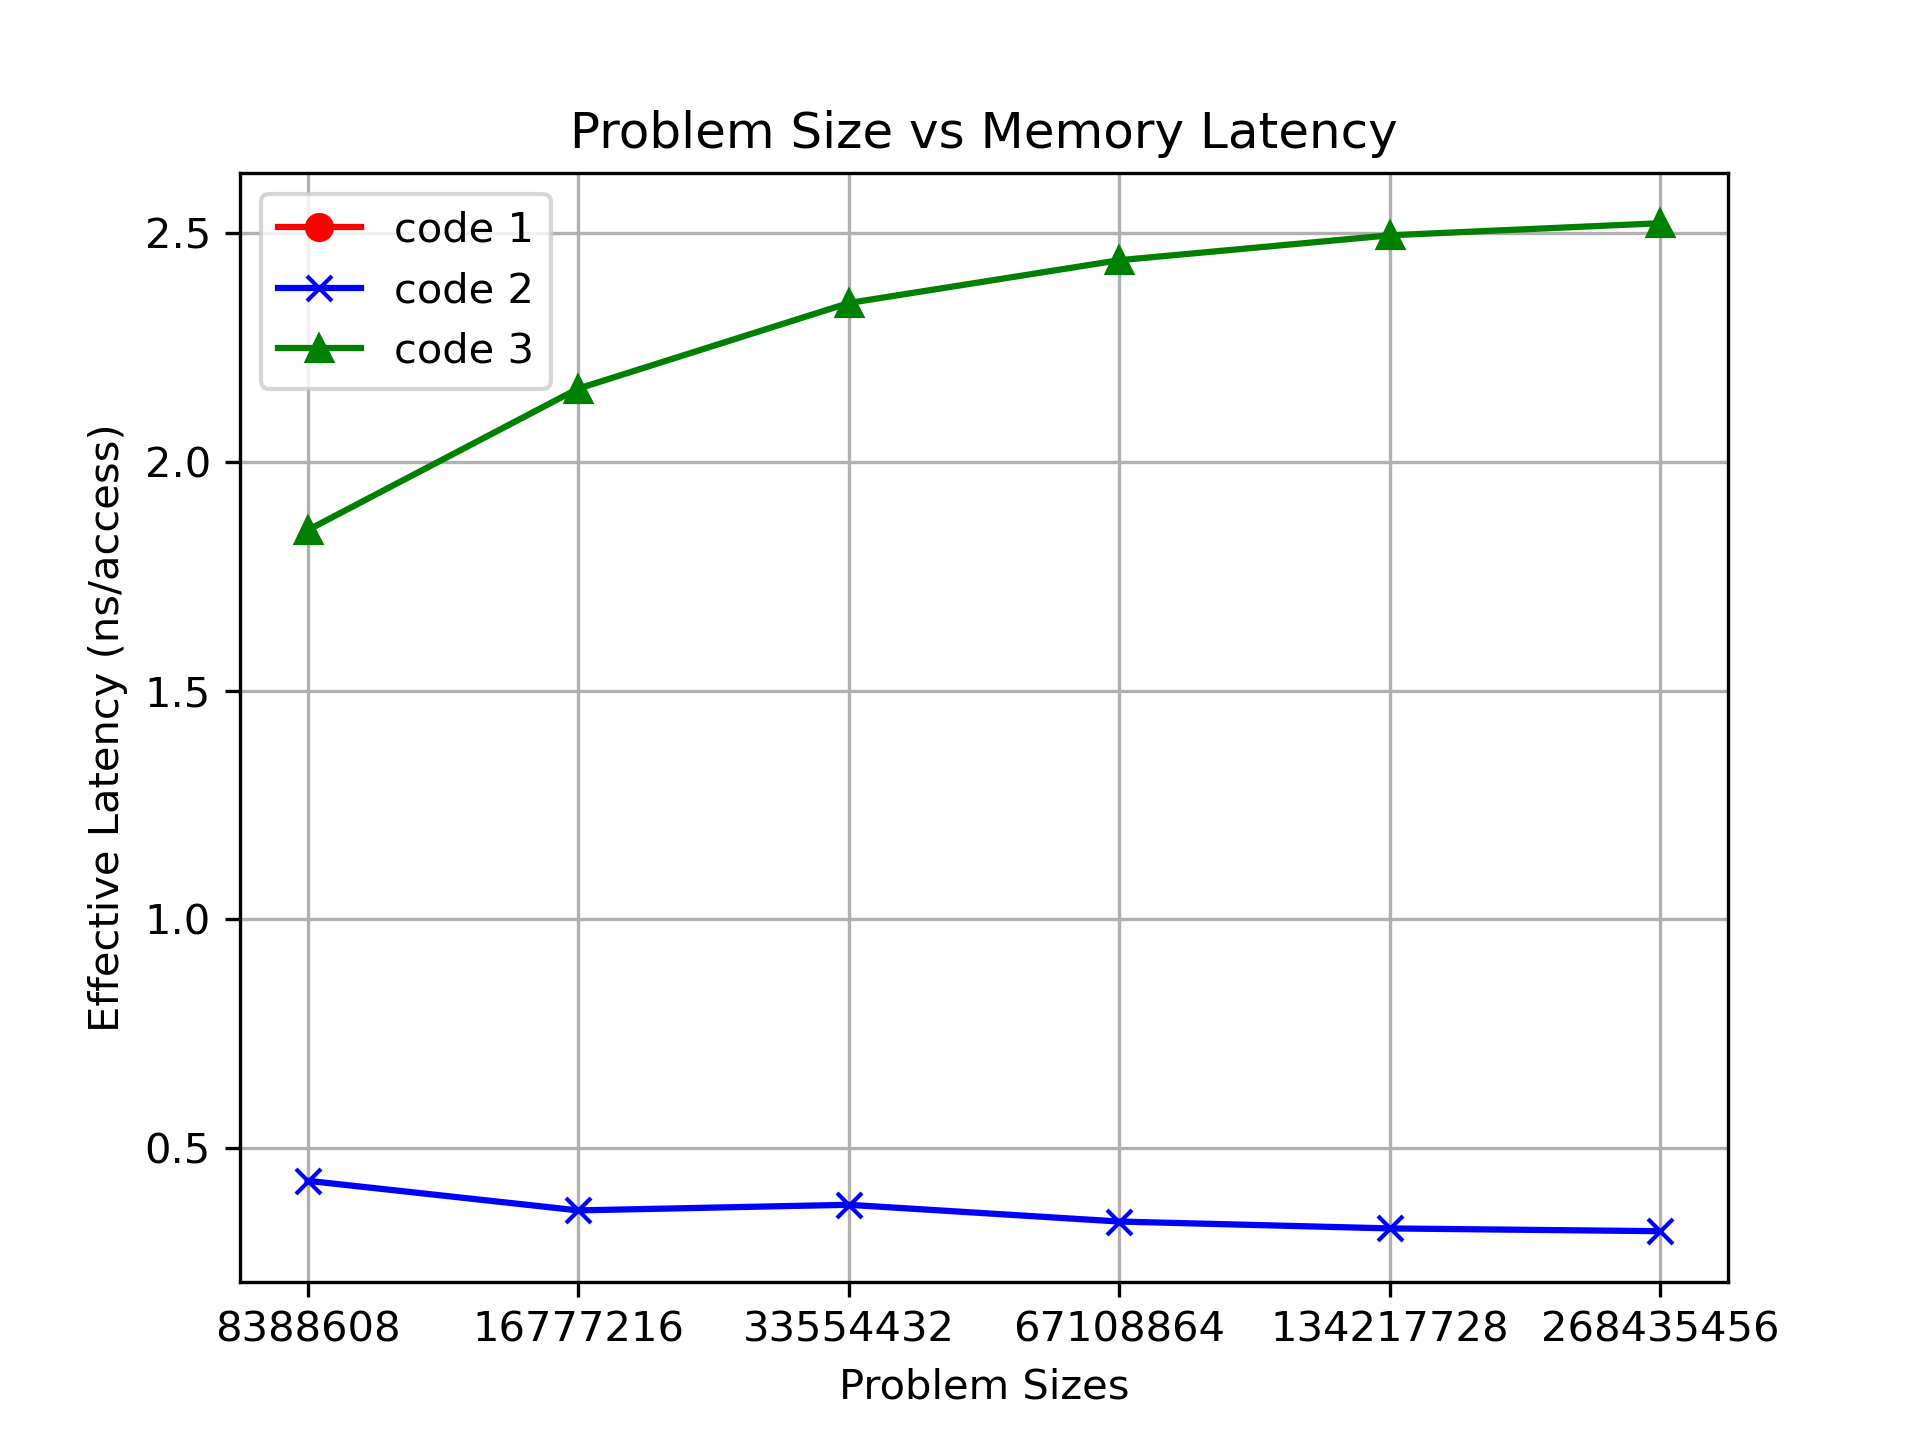
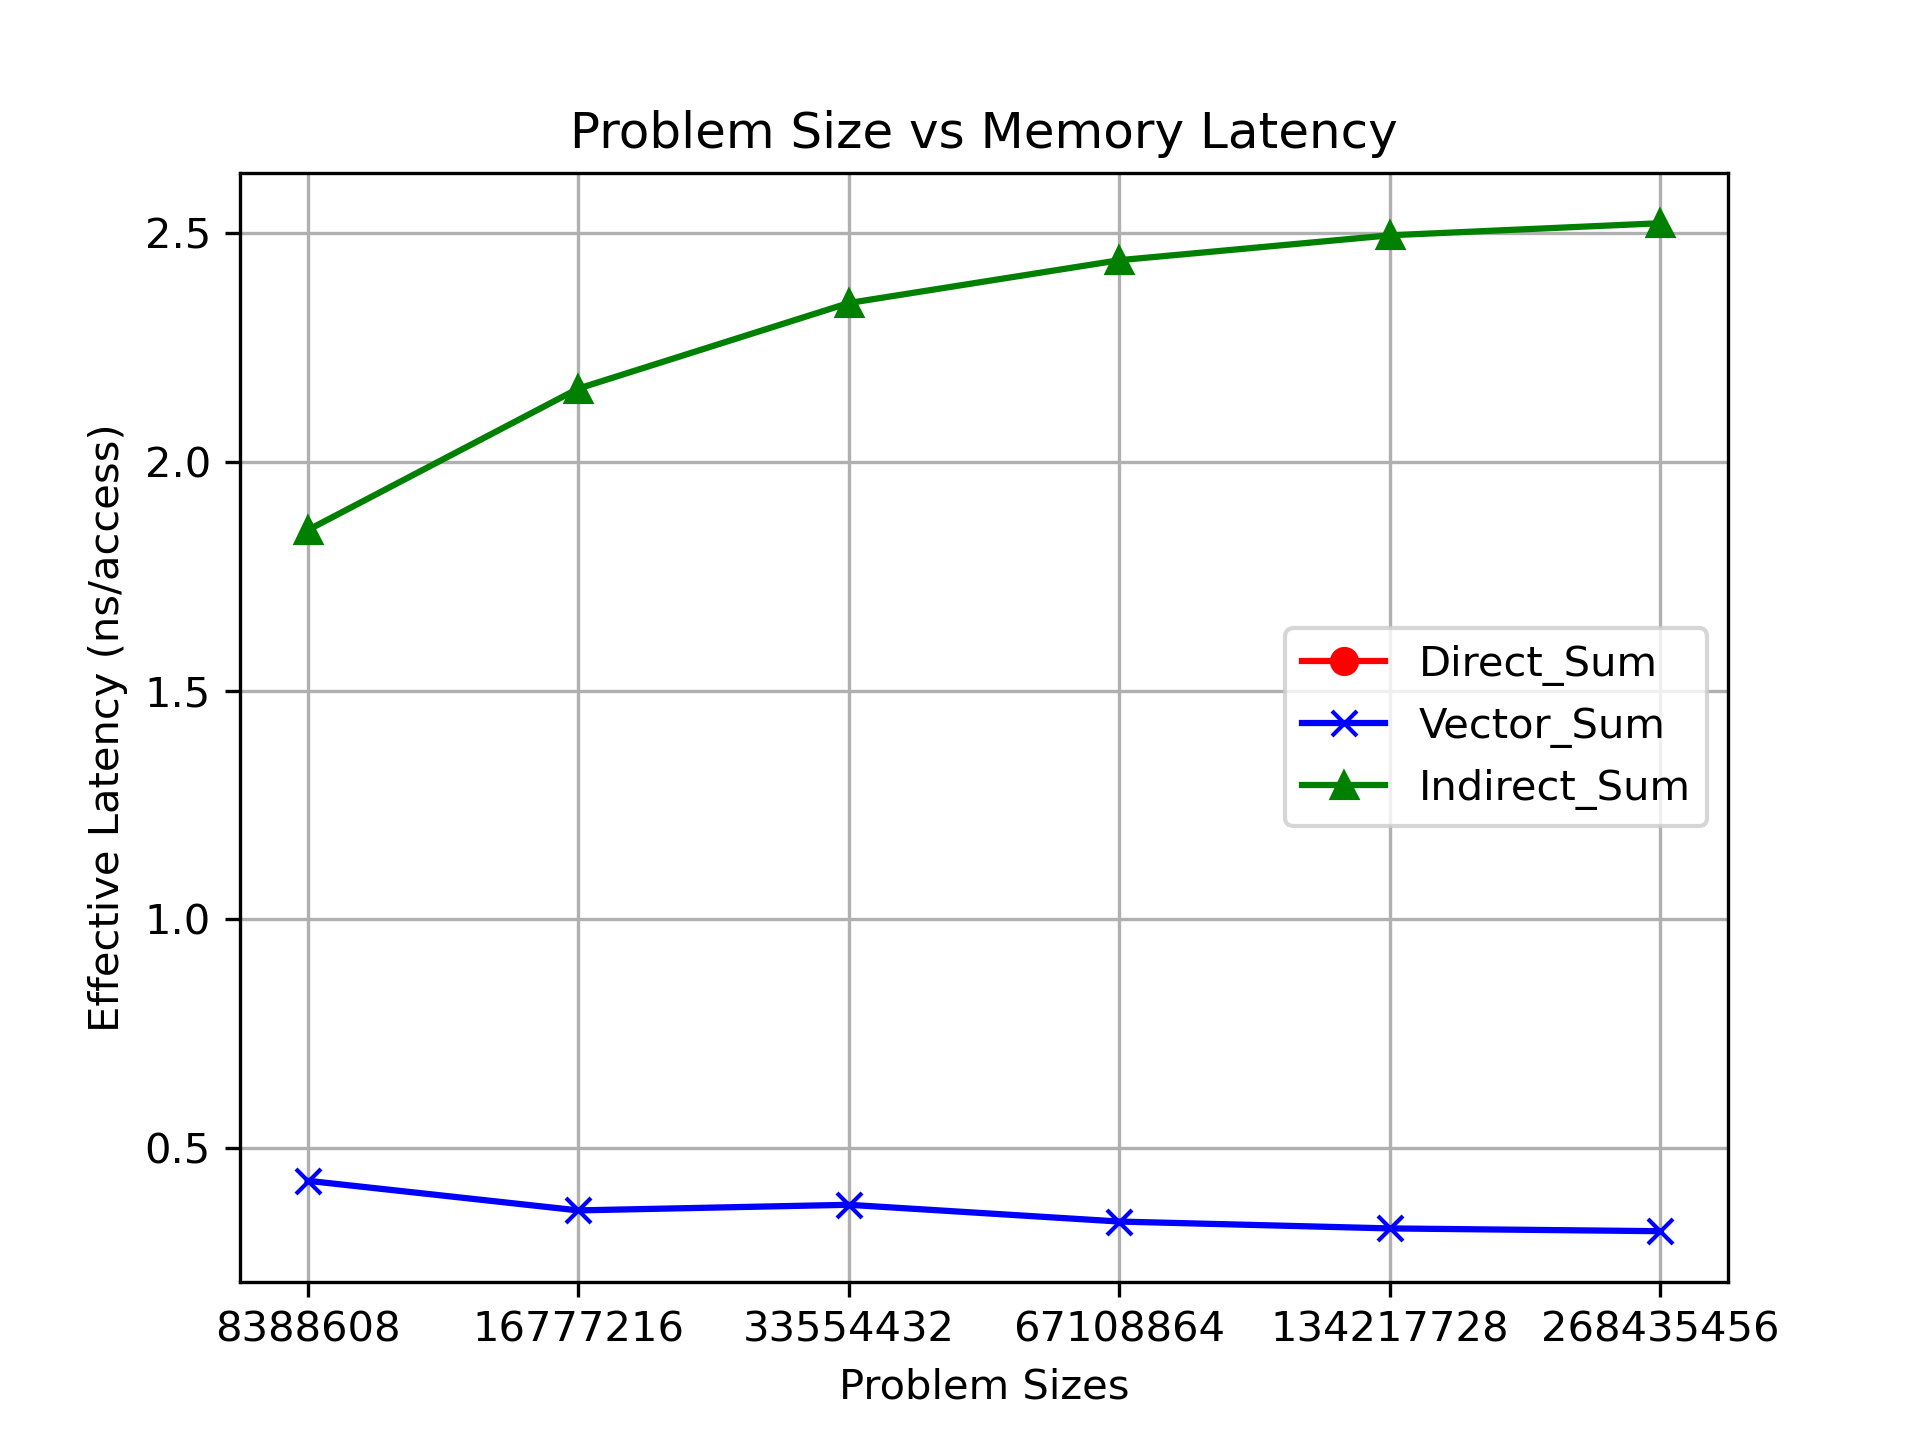
added legends fix

Changed region(s): [[0.6562, 0.4375, 0.9062, 0.5938], [0.125, 0.125, 0.2812, 0.2812]]

diff --git a/plot_3vars_savefig.py b/plot_3vars_savefig.py
@@ -19,7 +19,7 @@ Assumptions: developed and tested using Python version 3.8.8 on macOS 11.6
 import pandas as pd
 import matplotlib.pyplot as plt
 
-plot_fname = "latency_ns.png"
+plot_fname = "mflops.png"
 
 fname = "sample_data_3vars.csv"
 df = pd.read_csv(fname, comment="#")
@@ -39,7 +39,7 @@ code3_time = df[var_names[3]].values.tolist()
 
 plt.figure()
 
-plt.title("Problem Size vs Memory Latency")
+plt.title("Problem Size vs MFLOP/s")
 
 xlocs = [i for i in range(len(problem_sizes))]
 
@@ -53,10 +53,10 @@ plt.plot(code3_time, "g-^", label="Indirect_Sum")
 #plt.yscale("log")
 
 plt.xlabel("Problem Sizes")
-plt.ylabel("Effective Latency (ns/access)")
+plt.ylabel("MFLOP/s")
 
-varNames = [var_names[1], var_names[2], var_names[3]]
-plt.legend(varNames, loc="best")
+#varNames = [var_names[1], var_names[2], var_names[3]]
+plt.legend(loc="best")
 
 plt.grid(axis='both')
 
